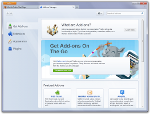
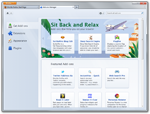
Update Press Center screenshots with Firefox 6 and fix Bug 668340 - Update screenshots on mozilla.com to remove purple aero glass
git-svn-id: svn+ssh://svn.mozilla.org/projects/mozilla.com/trunk@93794 4eb1ac78-321c-0410-a911-ec516a8615a5

diff --git a/en-US/press/media/screenshots/index.html b/en-US/press/media/screenshots/index.html
@@ -37,22 +37,22 @@ EXTRA_HEADERS;
         <h3>Firefox Desktop</h3>
         <div class="screenshots">
             <div class="screenshot-contents">
-                <a href="<?php echo "{$config['static_prefix']}"; ?>/en-US/img/press/screenshots/firefox4-windows.png">
-                    <img src="<?php echo "{$config['static_prefix']}"; ?>/en-US/img/press/screenshots/firefox4-windows-small.png" alt="screenshot" width="150" />
+                <a href="<?php echo "{$config['static_prefix']}"; ?>/en-US/img/press/screenshots/firefox-windows.png">
+                    <img src="<?php echo "{$config['static_prefix']}"; ?>/en-US/img/press/screenshots/firefox-windows-small.png" alt="screenshot" width="150" />
                     <h5>Firefox on Windows</h5>
                     <span>142Kb PNG</span>
                 </a>
             </div>
             <div class="screenshot-contents">
-                <a href="<?php echo "{$config['static_prefix']}"; ?>/en-US/img/press/screenshots/firefox4-mac.png">
-                    <img src="<?php echo "{$config['static_prefix']}"; ?>/en-US/img/press/screenshots/firefox4-mac-small.png" alt="screenshot" width="150" />
+                <a href="<?php echo "{$config['static_prefix']}"; ?>/en-US/img/press/screenshots/firefox-mac.png">
+                    <img src="<?php echo "{$config['static_prefix']}"; ?>/en-US/img/press/screenshots/firefox-mac-small.png" alt="screenshot" width="150" />
                     <h5>Firefox on Mac</h5>
                     <span>172Kb PNG</span>
 </a>
             </div>
             <div class="screenshot-contents">
-                <a href="<?php echo "{$config['static_prefix']}"; ?>/en-US/img/press/screenshots/firefox4-linux.png">
-                    <img src="<?php echo "{$config['static_prefix']}"; ?>/en-US/img/press/screenshots/firefox4-linux-small.png" alt="screenshot" width="150" />
+                <a href="<?php echo "{$config['static_prefix']}"; ?>/en-US/img/press/screenshots/firefox-linux.png">
+                    <img src="<?php echo "{$config['static_prefix']}"; ?>/en-US/img/press/screenshots/firefox-linux-small.png" alt="screenshot" width="150" />
                     <h5>Firefox on Linux</h5>
                     <span>89Kb PNG</span>
                 </a>
